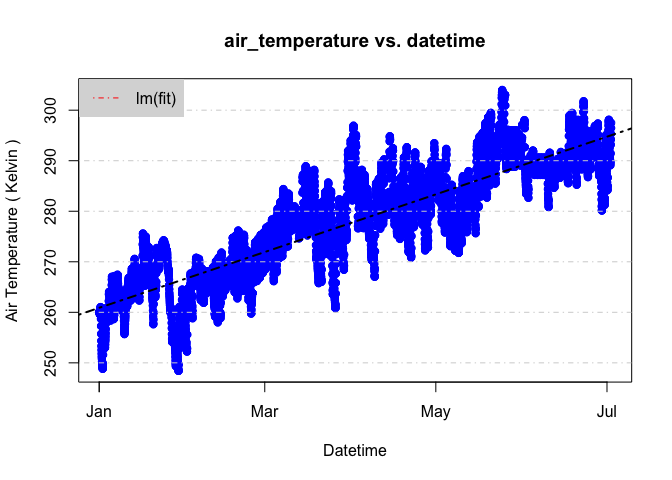
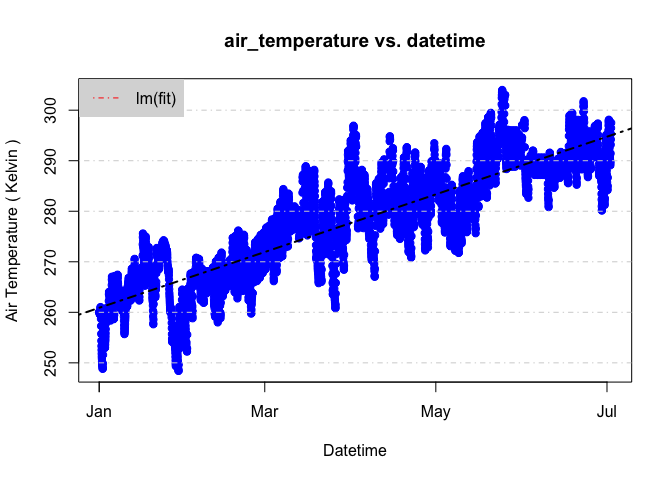
adding updated week 2

Changed region(s): [[0.2188, 0.625, 0.25, 0.6875], [0.6875, 0.4688, 0.7188, 0.5], [0.5938, 0.3125, 0.625, 0.3438]]

diff --git a/Advanced_R/Week2_BasicStatistics.md b/Advanced_R/Week2_BasicStatistics.md
@@ -636,7 +636,11 @@ coef(fit)
     ##                                       2.166050e-06
 
 ``` r
-plot(air_temperature[1:length(wcreek_df$air_temperature) / 2] ~ wcreek_df$datetime[1:length(wcreek_df$datetime) / 2], data = wcreek_df,
+# set our indexes
+start_ind = 1
+end_ind = length(wcreek_df$air_temperature) / 2 # calculate the length of the data and divide it by 2 to get the first half of year
+
+plot(air_temperature[start_ind:end_ind] ~ wcreek_df$datetime[start_ind:end_ind], data = wcreek_df,
   main= "air_temperature vs. datetime",
   ylab= "Air Temperature ( Kelvin )",
   xlab= "Datetime",
@@ -655,7 +659,8 @@ Let's add this to a histogram of the data
 ``` r
 hist(wcreek_df$air_temperature[1:length(wcreek_df$air_temperature) / 2], freq = FALSE)
 x <- seq(250, 310, length.out=100)
-y <- with(wcreek_df, dnorm(x, mean(air_temperature[1:length(wcreek_df$air_temperature) / 2]), sd(air_temperature[1:length(wcreek_df$air_temperature) / 2])))
+y <- with(wcreek_df, dnorm(x, mean(air_temperature[start_ind:end_ind]), 
+          sd(air_temperature[start_ind:end_ind])))
 lines(x, y, col = "red")
 ```
 
@@ -664,7 +669,7 @@ lines(x, y, col = "red")
 Density plots can be thought of as plots of smoothed histograms. The smoothness is controlled by a bandwidth parameter that is analogous to the histogram binwidth. Let's plot up the density of all the temperature values within this half of the data.
 
 ``` r
-d = density(wcreek_df$air_temperature[1:length(wcreek_df$air_temperature) / 2], bw = 0.5)
+d = density(wcreek_df$air_temperature[start_ind:end_ind], bw = 0.5)
 plot(d, xlab = "Air Temperature (Kelvin)", ylab = "Density", main="Air Temperature Density", col="black")
 ```
 
@@ -673,8 +678,8 @@ plot(d, xlab = "Air Temperature (Kelvin)", ylab = "Density", main="Air Temperatu
 For a moderate number of observations a useful addition is a jittered rug plot:
 
 ``` r
-plot(density(wcreek_df$air_temperature[1:length(wcreek_df$air_temperature) / 2], bw = 0.5), main = "jittered rug plot")
-rug(jitter(wcreek_df$air_temperature[1:length(wcreek_df$air_temperature) / 2]))
+plot(density(wcreek_df$air_temperature[start_ind:end_ind], bw = 0.5), main = "jittered rug plot")
+rug(jitter(wcreek_df$air_temperature[start_ind:end_ind]))
 ```
 
 ![](Week2_BasicStatistics_files/figure-markdown_github/unnamed-chunk-13-1.png)
